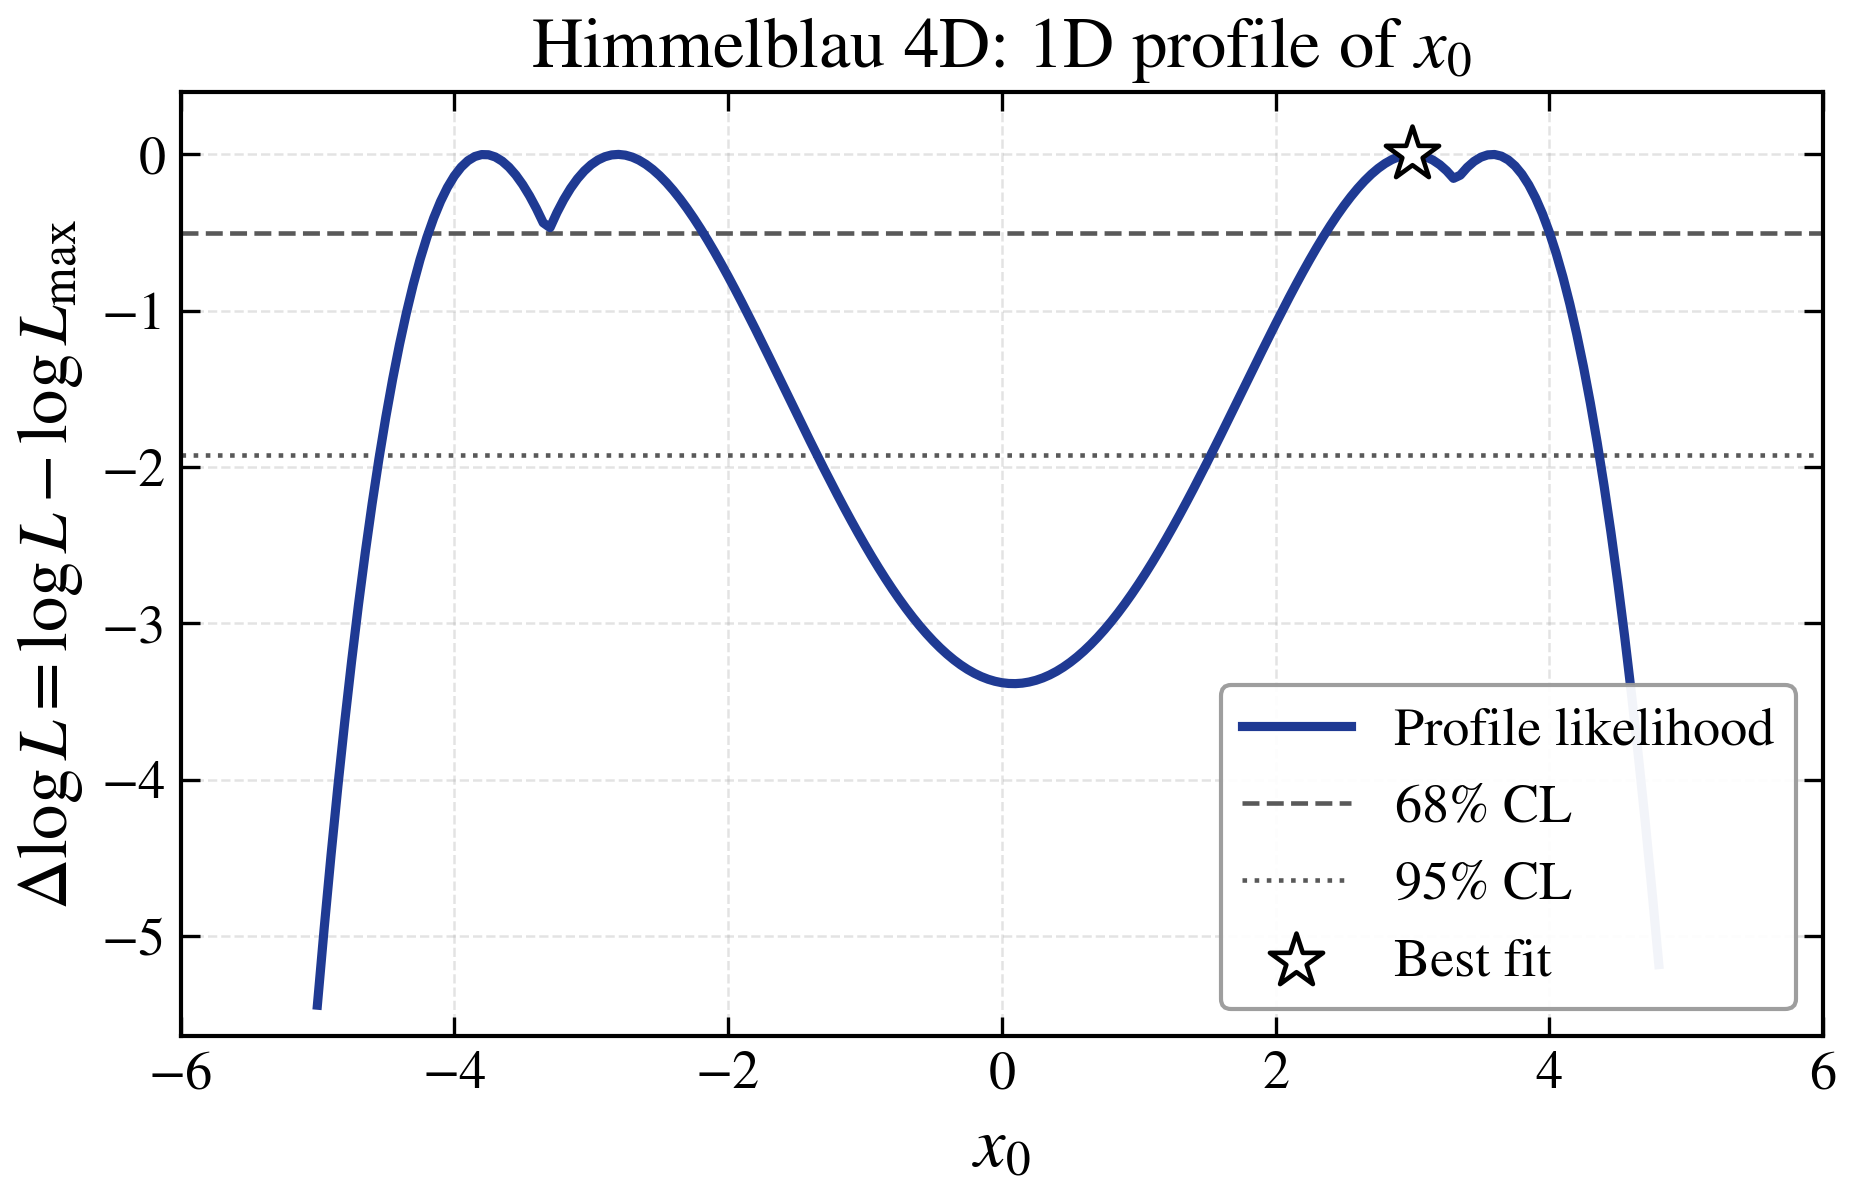
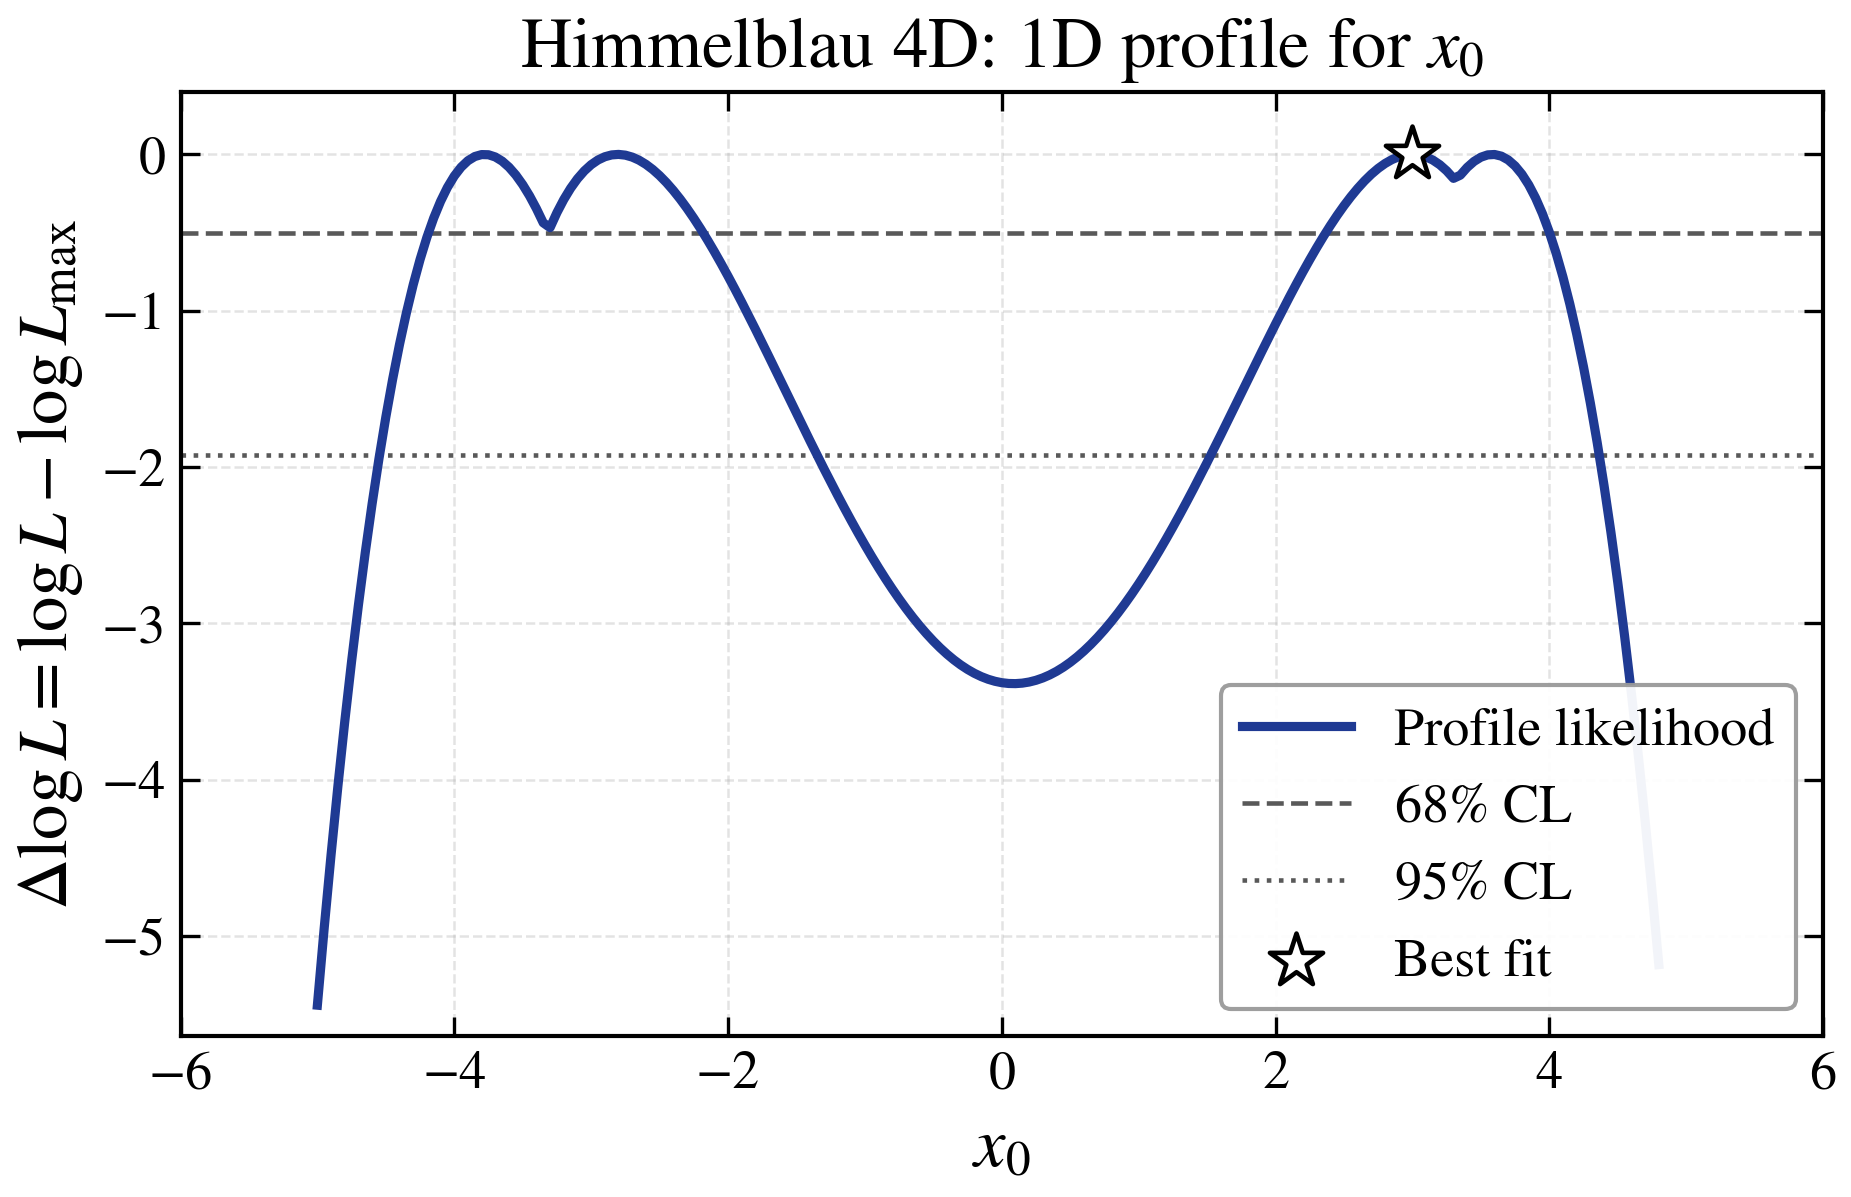
Showcase: two 2D projections per function, side-by-side README layout
- Each test function now contributes a 1D and two distinct 2D profile
  likelihood projections, exercising different parameter pairs.
- Plot titles now read "1D/2D profile for ..." (was "of ...").
- README drops the table layout in favour of three side-by-side images
  per function with a caption line stating the function name and the
  cumulative target-function evaluation count across all three
  projections.
- ROI thresholds tuned per the user's request: Himmelblau 5, Rosenbrock
  10, Ackley 5. Updated totals: Himmelblau 263,118, Rosenbrock 49,947,
  Ackley 108,786.

Updated example_plots/showcase/{data,summary} accordingly.

Changed region(s): [[0.2771, 0.0, 0.8006, 0.0618]]

diff --git a/examples/run_showcase_scan.py b/examples/run_showcase_scan.py
@@ -1,8 +1,9 @@
 """
-Run a 1D + 2D profile-likelihood scan for a chosen test function and dump
-the resulting profile-likelihood grids (plus the cumulative target-function
-evaluation count across the scan) to disk, ready to be turned into the
-publication-quality README showcase plots by ``make_showcase_plots.py``.
+Run a 1D + two-2D profile-likelihood scan for a chosen test function and
+dump the resulting profile-likelihood grids (plus the cumulative
+target-function evaluation count across all projections) to disk, ready to
+be turned into the publication-quality README showcase plots by
+``make_showcase_plots.py``.
 
 Run with MPI for a single test function, e.g.::
 
@@ -24,12 +25,13 @@ from paraprof import (
 set_log_level('INFO')
 
 # Per-function tuning. Each entry picks the projection dims for the 1D and
-# 2D showcase plots and any sampler/projection overrides that materially
+# two 2D showcase plots and any sampler/projection overrides that materially
 # improve the quality of the resulting plot for that landscape.
 SHOWCASE_FUNCTIONS = {
     'himmelblau_4d': {
         'dim_1d': 0,
-        'dims_2d': [0, 1],
+        'dims_2d_a': [0, 1],
+        'dims_2d_b': [0, 2],
         'grid_1d': 120,
         'grid_2d': 60,
         'roi_threshold': 5.0,
@@ -40,10 +42,11 @@ SHOWCASE_FUNCTIONS = {
     },
     'rosenbrock_4d': {
         'dim_1d': 0,
-        'dims_2d': [0, 1],
+        'dims_2d_a': [0, 1],
+        'dims_2d_b': [1, 2],
         'grid_1d': 120,
         'grid_2d': 60,
-        'roi_threshold': 8.0,
+        'roi_threshold': 10.0,
         'n_initial_optimizations': 100,
         'max_patching_waves': 25,
         'lbfgsb_max_iter': 25,
@@ -53,10 +56,11 @@ SHOWCASE_FUNCTIONS = {
     },
     'ackley_4d': {
         'dim_1d': 0,
-        'dims_2d': [0, 1],
+        'dims_2d_a': [0, 1],
+        'dims_2d_b': [1, 2],
         'grid_1d': 120,
         'grid_2d': 60,
-        'roi_threshold': 8.0,
+        'roi_threshold': 5.0,
         'n_initial_optimizations': 100,
         'max_patching_waves': 25,
         'lbfgsb_max_iter': 25,
@@ -97,8 +101,11 @@ def main():
         # 1D profile, refined 2x with patching on both grids.
         {'dims': [cfg['dim_1d']], 'grid_points': [cfg['grid_1d']],
          'grid_refinement_factor': 2, 'patch_refined_grid': True},
-        # 2D profile, refined 2x with patching on both grids.
-        {'dims': list(cfg['dims_2d']), 'grid_points': [cfg['grid_2d'], cfg['grid_2d']],
+        # First 2D profile, refined 2x with patching on both grids.
+        {'dims': list(cfg['dims_2d_a']), 'grid_points': [cfg['grid_2d'], cfg['grid_2d']],
+         'grid_refinement_factor': 2, 'patch_refined_grid': True},
+        # Second 2D profile, refined 2x with patching on both grids.
+        {'dims': list(cfg['dims_2d_b']), 'grid_points': [cfg['grid_2d'], cfg['grid_2d']],
          'grid_refinement_factor': 2, 'patch_refined_grid': True},
     ]
 
@@ -127,9 +134,9 @@ def main():
             myrank=myrank,
         )
 
-    # Both per-projection metric snapshots hold the *cumulative* call count
-    # at the end of that projection, so the totals across the scan come from
-    # the last projection.
+    # Per-projection metric snapshots hold the *cumulative* call count at
+    # the end of that projection, so the grand total across the scan comes
+    # from the last projection.
     total_target_calls = int(results[-1]['metrics']['total_target_calls'])
 
     # ``run_projection`` stores the refined solution if refinement ran, else
@@ -138,22 +145,20 @@ def main():
         return res['refined_solution'] if res['refined_solution'] is not None else res['coarse_solution']
 
     sol_1d = best_solution(results[0])
-    sol_2d = best_solution(results[1])
+    sol_2d_a = best_solution(results[1])
+    sol_2d_b = best_solution(results[2])
 
-    # Pack 1D data
-    grid_1d_axes = sol_1d['grid_axes']
-    grid_1d_shape = sol_1d['grid_shape']
     likelihood_1d = grid_dict_to_array(
         {idx: s['likelihood'] for idx, s in sol_1d['solutions'].items()},
-        grid_1d_shape,
+        sol_1d['grid_shape'],
     )
-
-    # Pack 2D data
-    grid_2d_axes = sol_2d['grid_axes']
-    grid_2d_shape = sol_2d['grid_shape']
-    likelihood_2d = grid_dict_to_array(
-        {idx: s['likelihood'] for idx, s in sol_2d['solutions'].items()},
-        grid_2d_shape,
+    likelihood_2d_a = grid_dict_to_array(
+        {idx: s['likelihood'] for idx, s in sol_2d_a['solutions'].items()},
+        sol_2d_a['grid_shape'],
+    )
+    likelihood_2d_b = grid_dict_to_array(
+        {idx: s['likelihood'] for idx, s in sol_2d_b['solutions'].items()},
+        sol_2d_b['grid_shape'],
     )
 
     out_npz = os.path.join(args.output_dir, f'{args.function}.npz')
@@ -163,13 +168,18 @@ def main():
         total_target_calls=total_target_calls,
         # 1D
         proj_dim_1d=cfg['dim_1d'],
-        axis_1d=grid_1d_axes[0],
+        axis_1d=sol_1d['grid_axes'][0],
         likelihood_1d=likelihood_1d,
-        # 2D
-        proj_dims_2d=np.array(cfg['dims_2d'], dtype=int),
-        axis_2d_x=grid_2d_axes[0],
-        axis_2d_y=grid_2d_axes[1],
-        likelihood_2d=likelihood_2d,
+        # 2D #1
+        proj_dims_2d_a=np.array(cfg['dims_2d_a'], dtype=int),
+        axis_2d_a_x=sol_2d_a['grid_axes'][0],
+        axis_2d_a_y=sol_2d_a['grid_axes'][1],
+        likelihood_2d_a=likelihood_2d_a,
+        # 2D #2
+        proj_dims_2d_b=np.array(cfg['dims_2d_b'], dtype=int),
+        axis_2d_b_x=sol_2d_b['grid_axes'][0],
+        axis_2d_b_y=sol_2d_b['grid_axes'][1],
+        likelihood_2d_b=likelihood_2d_b,
     )
 
     out_json = os.path.join(args.output_dir, f'{args.function}.json')

diff --git a/examples/make_showcase_plots.py b/examples/make_showcase_plots.py
@@ -1,11 +1,12 @@
 """
-Generate the publication-quality 1D + 2D profile-likelihood showcase plots
-that the README displays at the top of the page.
+Generate the publication-quality profile-likelihood showcase plots that the
+README displays at the top of the page.
 
 Reads the ``.npz`` grids produced by ``run_showcase_scan.py``, renders one
-high-resolution PNG per (function, projection-type) combination using a
-LaTeX-style serif math font, and writes a JSON table summarising the total
-target-function evaluation count for each test function.
+high-resolution PNG per (function, projection) combination (one 1D
+projection and two 2D projections per function) using a LaTeX-style serif
+math font, and writes a JSON table summarising the total target-function
+evaluation count for each test function.
 
 Usage::
 
@@ -14,7 +15,6 @@ Usage::
 import argparse
 import json
 import os
-from glob import glob
 
 import numpy as np
 
@@ -59,11 +59,10 @@ def setup_matplotlib():
     return plt
 
 
-def plot_1d(plt, data, title_name, out_path, dpi):
+def plot_1d(plt, axis, logL, proj_dim, title_name, out_path, dpi):
     """Render a single 1D profile-likelihood plot."""
-    axis = np.asarray(data['axis_1d'])
-    logL = np.asarray(data['likelihood_1d'])
-    proj_dim = int(data['proj_dim_1d'])
+    axis = np.asarray(axis)
+    logL = np.asarray(logL)
 
     valid = np.isfinite(logL)
     if not valid.any():
@@ -90,7 +89,7 @@ def plot_1d(plt, data, title_name, out_path, dpi):
 
     ax.set_xlabel(rf'$x_{{{proj_dim}}}$')
     ax.set_ylabel(r'$\Delta \log L = \log L - \log L_{\max}$')
-    ax.set_title(f'{title_name}: 1D profile of $x_{{{proj_dim}}}$')
+    ax.set_title(f'{title_name}: 1D profile for $x_{{{proj_dim}}}$')
 
     # Sensible y-range that emphasises the high-likelihood region without
     # squashing the structure to a single pixel.
@@ -106,20 +105,19 @@ def plot_1d(plt, data, title_name, out_path, dpi):
     plt.close(fig)
 
 
-def plot_2d(plt, data, title_name, out_path, dpi):
+def plot_2d(plt, axis_x, axis_y, logL, dims, title_name, out_path, dpi):
     """Render a single 2D profile-likelihood heat-map with CL contours."""
-    axis_x = np.asarray(data['axis_2d_x'])
-    axis_y = np.asarray(data['axis_2d_y'])
-    logL = np.asarray(data['likelihood_2d'])
-    dims = np.asarray(data['proj_dims_2d']).tolist()
+    axis_x = np.asarray(axis_x)
+    axis_y = np.asarray(axis_y)
+    logL = np.asarray(logL)
+    dims = list(dims)
 
     finite = np.isfinite(logL)
     if not finite.any():
-        raise ValueError(f"No valid 2D likelihood values for {title_name}.")
+        raise ValueError(f"No valid 2D likelihood values for {title_name} ({dims}).")
     max_logL = np.max(logL[finite])
     delta = np.where(finite, logL - max_logL, np.nan)
 
-    # Locate best fit
     flat_idx = int(np.nanargmax(np.where(finite, delta, -np.inf)))
     bi, bj = np.unravel_index(flat_idx, delta.shape)
     best_x = axis_x[bi]
@@ -154,7 +152,7 @@ def plot_2d(plt, data, title_name, out_path, dpi):
 
     ax.set_xlabel(rf'$x_{{{dims[0]}}}$')
     ax.set_ylabel(rf'$x_{{{dims[1]}}}$')
-    ax.set_title(f'{title_name}: 2D profile of $(x_{{{dims[0]}}}, x_{{{dims[1]}}})$')
+    ax.set_title(f'{title_name}: 2D profile for $(x_{{{dims[0]}}}, x_{{{dims[1]}}})$')
     ax.set_xlim(axis_x[0], axis_x[-1])
     ax.set_ylim(axis_y[0], axis_y[-1])
 
@@ -191,9 +189,32 @@ def main():
         data = np.load(npz_path, allow_pickle=False)
 
         out_1d = os.path.join(args.out_dir, f'{name}_1d.png')
-        out_2d = os.path.join(args.out_dir, f'{name}_2d.png')
-        plot_1d(plt, data, display, out_1d, args.dpi)
-        plot_2d(plt, data, display, out_2d, args.dpi)
+        out_2d_a = os.path.join(args.out_dir, f'{name}_2d_a.png')
+        out_2d_b = os.path.join(args.out_dir, f'{name}_2d_b.png')
+
+        plot_1d(plt,
+                axis=data['axis_1d'],
+                logL=data['likelihood_1d'],
+                proj_dim=int(data['proj_dim_1d']),
+                title_name=display,
+                out_path=out_1d,
+                dpi=args.dpi)
+        plot_2d(plt,
+                axis_x=data['axis_2d_a_x'],
+                axis_y=data['axis_2d_a_y'],
+                logL=data['likelihood_2d_a'],
+                dims=np.asarray(data['proj_dims_2d_a']).tolist(),
+                title_name=display,
+                out_path=out_2d_a,
+                dpi=args.dpi)
+        plot_2d(plt,
+                axis_x=data['axis_2d_b_x'],
+                axis_y=data['axis_2d_b_y'],
+                logL=data['likelihood_2d_b'],
+                dims=np.asarray(data['proj_dims_2d_b']).tolist(),
+                title_name=display,
+                out_path=out_2d_b,
+                dpi=args.dpi)
 
         with open(json_path) as f:
             scan_summary = json.load(f)
@@ -202,7 +223,8 @@ def main():
             'display_name': display,
             'total_target_calls': scan_summary['total_target_calls'],
             'plot_1d': os.path.relpath(out_1d, '.'),
-            'plot_2d': os.path.relpath(out_2d, '.'),
+            'plot_2d_a': os.path.relpath(out_2d_a, '.'),
+            'plot_2d_b': os.path.relpath(out_2d_b, '.'),
         })
         print(f"[ok]   {display:>14}  total target evaluations: {scan_summary['total_target_calls']:>10,}")
 

diff --git a/README.md b/README.md
@@ -7,42 +7,33 @@
 
 ## Example output
 
-The grid below shows 1D and 2D profile likelihood projections produced by ParaProf for three 4-dimensional analytic test functions (the two profiled dimensions are optimized out at each grid point). Total target-function evaluations across both projections per test function are listed alongside.
+The rows below show 1D and 2D profile likelihood projections produced by ParaProf for three 4-dimensional analytic test functions. At each grid point in a projection, the dimensions not shown are profiled out (optimized over) so that each plot reflects the best-fit log-likelihood over the unseen parameters. Contour lines mark the 68% and 95% Wilks confidence regions (Δχ² = 1, 3.84 in 1D and 2.30, 6.18 in 2D); the white star marks the best-fit grid point.
 
 The plots were generated by `examples/run_showcase_scan.py` (one MPI scan per test function) followed by `examples/make_showcase_plots.py`.
 
-<table>
-  <thead>
-    <tr>
-      <th align="left">Test function</th>
-      <th align="center">1D profile of <i>x</i><sub>0</sub></th>
-      <th align="center">2D profile of (<i>x</i><sub>0</sub>, <i>x</i><sub>1</sub>)</th>
-      <th align="right">Target evaluations<br/>(both projections)</th>
-    </tr>
-  </thead>
-  <tbody>
-    <tr>
-      <td><b>Himmelblau 4D</b><br/><sub>16 equal-height peaks</sub></td>
-      <td><img src="examples/example_plots/showcase/himmelblau_4d_1d.png" alt="Himmelblau 4D 1D profile" width="420"/></td>
-      <td><img src="examples/example_plots/showcase/himmelblau_4d_2d.png" alt="Himmelblau 4D 2D profile" width="420"/></td>
-      <td align="right">98,867</td>
-    </tr>
-    <tr>
-      <td><b>Rosenbrock 4D</b><br/><sub>narrow curved valley</sub></td>
-      <td><img src="examples/example_plots/showcase/rosenbrock_4d_1d.png" alt="Rosenbrock 4D 1D profile" width="420"/></td>
-      <td><img src="examples/example_plots/showcase/rosenbrock_4d_2d.png" alt="Rosenbrock 4D 2D profile" width="420"/></td>
-      <td align="right">33,362</td>
-    </tr>
-    <tr>
-      <td><b>Ackley 4D</b><br/><sub>sharp central peak with ripples</sub></td>
-      <td><img src="examples/example_plots/showcase/ackley_4d_1d.png" alt="Ackley 4D 1D profile" width="420"/></td>
-      <td><img src="examples/example_plots/showcase/ackley_4d_2d.png" alt="Ackley 4D 2D profile" width="420"/></td>
-      <td align="right">207,585</td>
-    </tr>
-  </tbody>
-</table>
+<p align="center">
+  <img src="examples/example_plots/showcase/himmelblau_4d_1d.png" alt="Himmelblau 4D 1D profile for x0" width="280"/>
+  <img src="examples/example_plots/showcase/himmelblau_4d_2d_a.png" alt="Himmelblau 4D 2D profile for (x0, x1)" width="280"/>
+  <img src="examples/example_plots/showcase/himmelblau_4d_2d_b.png" alt="Himmelblau 4D 2D profile for (x0, x2)" width="280"/>
+</p>
 
-Contour lines correspond to the 68% and 95% Wilks confidence regions (Δχ² = 1, 3.84 in 1D and 2.30, 6.18 in 2D). The white star marks the best-fit grid point. Counts are the cumulative number of target-function evaluations across the 1D and 2D scans for each test function.
+**Himmelblau 4D** — 263,118 target-function evaluations across all three projections.
+
+<p align="center">
+  <img src="examples/example_plots/showcase/rosenbrock_4d_1d.png" alt="Rosenbrock 4D 1D profile for x0" width="280"/>
+  <img src="examples/example_plots/showcase/rosenbrock_4d_2d_a.png" alt="Rosenbrock 4D 2D profile for (x0, x1)" width="280"/>
+  <img src="examples/example_plots/showcase/rosenbrock_4d_2d_b.png" alt="Rosenbrock 4D 2D profile for (x1, x2)" width="280"/>
+</p>
+
+**Rosenbrock 4D** — 49,947 target-function evaluations across all three projections.
+
+<p align="center">
+  <img src="examples/example_plots/showcase/ackley_4d_1d.png" alt="Ackley 4D 1D profile for x0" width="280"/>
+  <img src="examples/example_plots/showcase/ackley_4d_2d_a.png" alt="Ackley 4D 2D profile for (x0, x1)" width="280"/>
+  <img src="examples/example_plots/showcase/ackley_4d_2d_b.png" alt="Ackley 4D 2D profile for (x1, x2)" width="280"/>
+</p>
+
+**Ackley 4D** — 108,786 target-function evaluations across all three projections.
 
 ## Key features
 